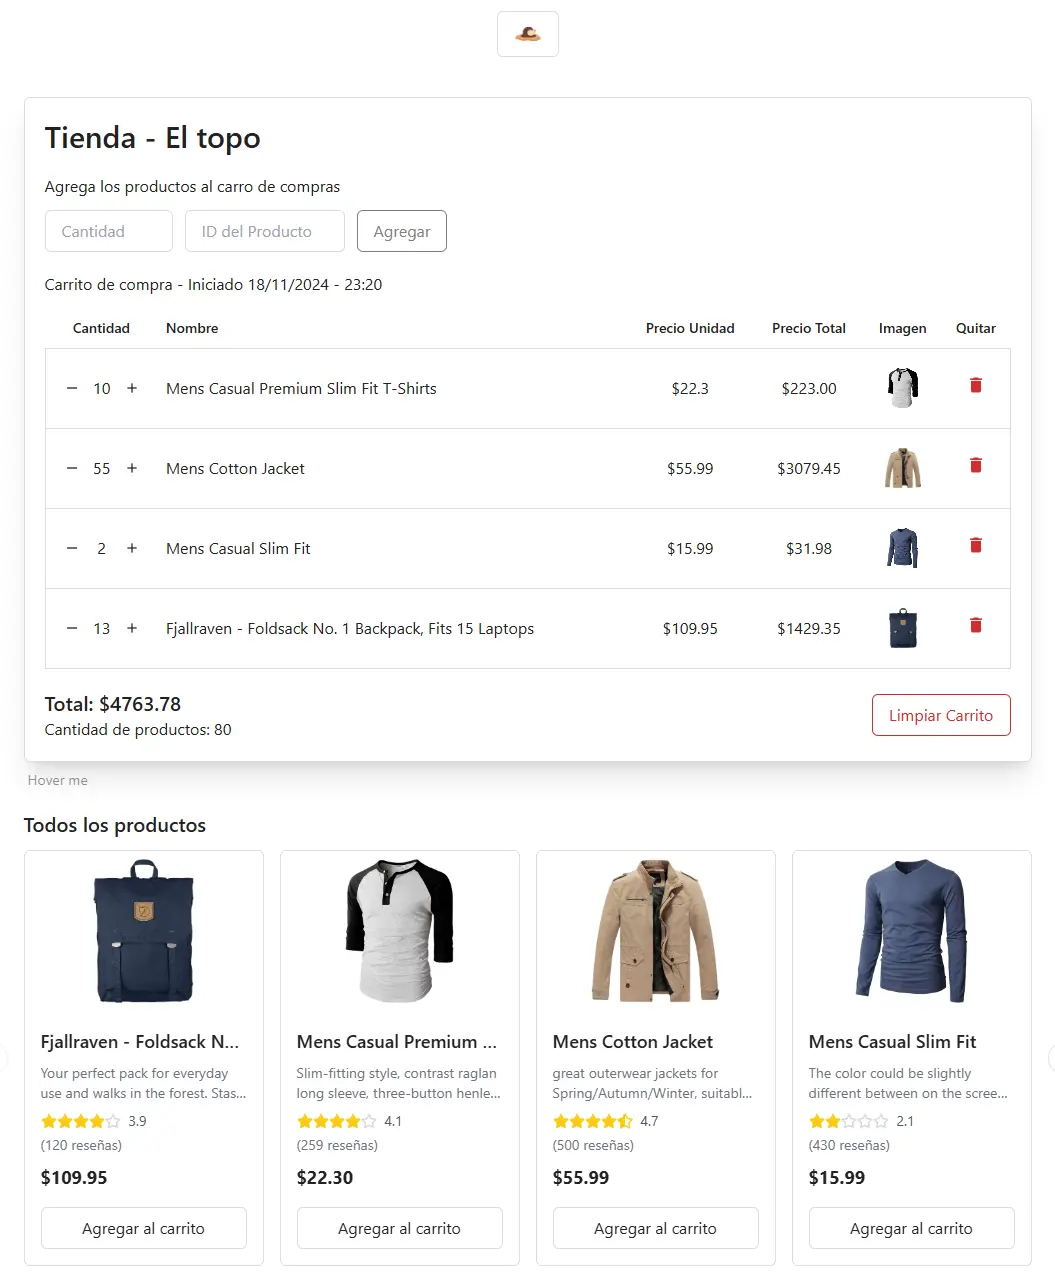
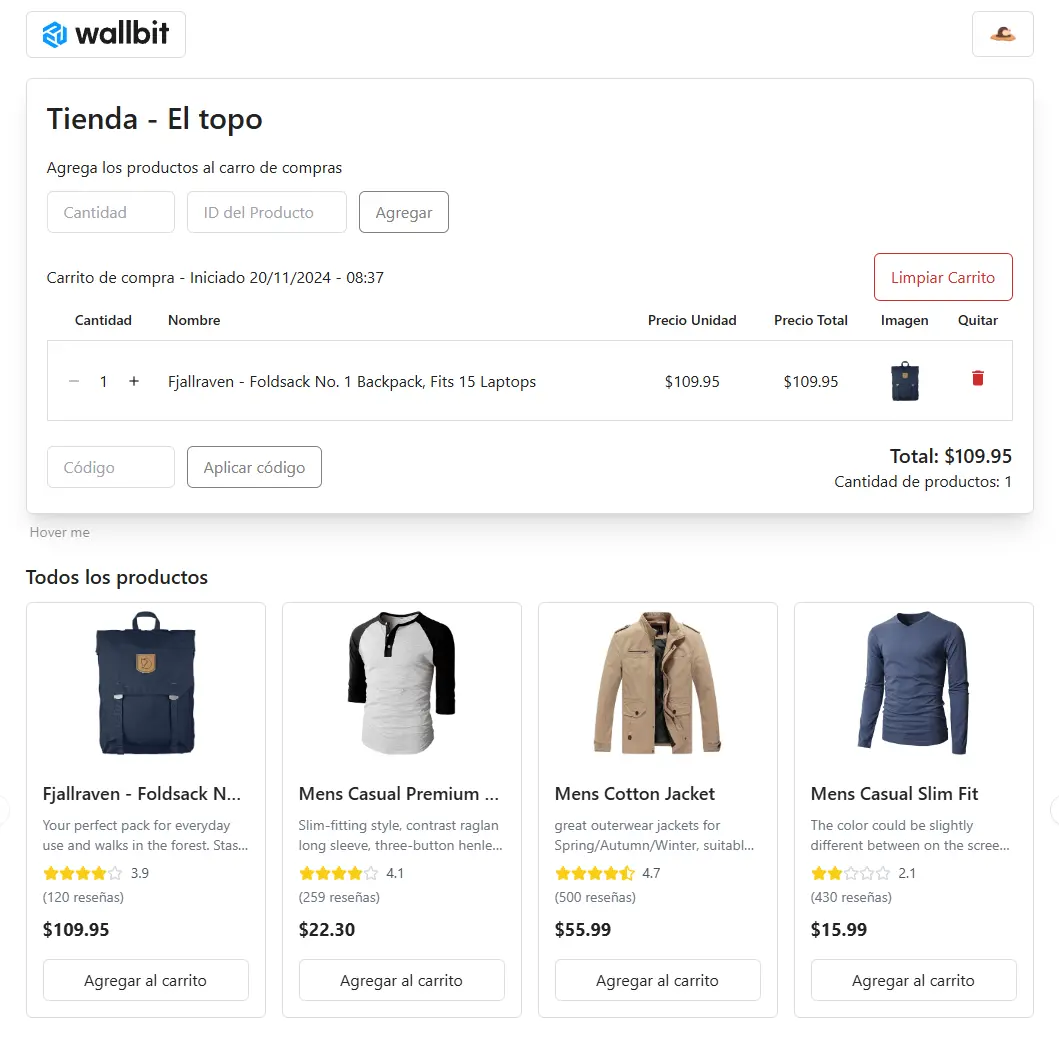
fix: some tweaks

diff --git a/src/components/cart/CartList.tsx b/src/components/cart/CartList.tsx
@@ -1,8 +1,10 @@
 import { Button } from '@components/common/Button'
 import { CartItem } from '../../types/cart'
 import { MdDelete, MdRemove, MdAdd } from 'react-icons/md'
-import { useEffect, useState } from 'react'
+import { FormEvent, useEffect, useState } from 'react'
 import 'photoswipe/style.css'
+import { Discounts, CART_DISCOUNT, CART_CODE } from '@/utils/const'
+import { toast } from '@pheralb/toast'
 
 interface Props {
   cartItems: CartItem[]
@@ -24,9 +26,52 @@ export const CartList = ({
   updateQuantity,
 }: Props) => {
   const [imageDimensions, setImageDimensions] = useState<ImageDimensions>({})
+  const [code, setCode] = useState(() => {
+    const storagedCode = localStorage.getItem(CART_CODE)
+    return storagedCode ? JSON.parse(storagedCode) : ''
+  })
+  const [discount, setDiscount] = useState(() => {
+    const storagedDiscount = localStorage.getItem(CART_DISCOUNT)
+    return storagedDiscount ? JSON.parse(storagedDiscount) : 0
+  })
 
   const totalItems = cartItems.reduce((acc, cur) => cur.quantity + acc, 0)
   const totalPrice = cartItems.reduce((acc, cur) => cur.totalPrice + acc, 0)
+
+  const handleCode = async (event: FormEvent<HTMLFormElement>) => {
+    event.preventDefault()
+    if (Object.keys(Discounts).includes(code)) {
+      setDiscount(Discounts[code])
+      localStorage.setItem(CART_CODE, JSON.stringify(code))
+    } else {
+      toast.error({
+        text: 'Invalid Code!',
+        description:
+          'The code you entered does not exist or is no longer available',
+      })
+      setCode('')
+    }
+  }
+
+  const codeValidate = () => {
+    return code ? false : true
+  }
+
+  const removeCode = () => {
+    setCode('')
+    setDiscount(0)
+  }
+
+  useEffect(() => {
+    localStorage.setItem(CART_DISCOUNT, JSON.stringify(discount))
+    localStorage.setItem(CART_CODE, JSON.stringify(code))
+    if (discount > 0) {
+      toast.success({
+        text: 'Discount Applied!',
+        description: `You got a ${discount}% discount`,
+      })
+    }
+  }, [discount])
 
   useEffect(() => {
     const loadImageDimensions = async () => {
@@ -74,16 +119,26 @@ export const CartList = ({
           No hay productos en el carro aun, prueba agregando arriba con su id y
           la cantidad que deseas ingresar
         </p>
+        <img
+          src="cart-empty.webp"
+          alt="Carrito vacio"
+          className="mx-auto size-40"
+        />
       </>
     )
   }
 
   return (
     <>
-      <h3 className="my-3">
-        Carrito de compra{' '}
-        <span>{cartItems.length ? `- Iniciado ${startedAt}` : ''}</span>
-      </h3>
+      <div className=" flex justify-between">
+        <h3 className="my-3">
+          Carrito de compra{' '}
+          <span>{cartItems.length ? `- Iniciado ${startedAt}` : ''}</span>
+        </h3>
+        <Button color="#d22e2f" onClick={clearCart}>
+          Limpiar Carrito
+        </Button>
+      </div>
 
       <article className="max-h-[500px] overflow-auto">
         <table className="w-full">
@@ -156,14 +211,56 @@ export const CartList = ({
       </article>
       <div className="flex justify-between items-center mt-5">
         <div>
-          <h5 className="text-xl font-semibold">
-            Total: ${totalPrice.toFixed(2)}
-          </h5>
+          <form onSubmit={handleCode} className="flex gap-3">
+            <input
+              type="text"
+              className="px-4 py-2 border rounded-md w-32"
+              value={code}
+              onChange={(event) => setCode(event.target.value)}
+              name="quantity"
+              readOnly={discount}
+              max={999}
+              min={1}
+              id="quantity"
+              placeholder="Código"
+            />
+            {discount ? (
+              <Button color="#d22e2f" onClick={removeCode}>
+                Eliminar código
+              </Button>
+            ) : (
+              <Button disabled={codeValidate} color="#0d99ff">
+                Aplicar código
+              </Button>
+            )}
+          </form>
+        </div>
+        <div>
+          <div className="flex justify-between gap-2 items-end">
+            <span className="text-sm font-bold text-green-600">
+              {discount ? `${discount + '% OFF'}` : ''}
+            </span>
+            <h5
+              className={`text-xl text-right font-semibold ${discount ? 'line-through text-neutral-500 opacity-50' : ''}`}
+            >
+              Total: ${totalPrice.toFixed(2)}
+            </h5>
+          </div>
+          {discount ? (
+            <div className="flex justify-between gap-2 items-end">
+              <span className="text-sm font-bold text-green-600">
+                ${(Number(totalPrice.toFixed(2)) * discount) / 100}
+              </span>
+              <h5 className="text-xl text-right font-semibold">
+                Total: $
+                {(totalPrice - (totalPrice * discount) / 100).toFixed(2)}
+              </h5>
+            </div>
+          ) : (
+            ''
+          )}
           <span>Cantidad de productos: {totalItems}</span>
         </div>
-        <Button color="#d22e2f" onClick={clearCart}>
-          Limpiar Carrito
-        </Button>
       </div>
     </>
   )

diff --git a/src/components/icon/WallbitLogo.tsx b/src/components/icon/WallbitLogo.tsx
@@ -1,0 +1,70 @@
+const WallbitLogo = ({ className }: { className?: string }) => {
+  return (
+    <svg
+      width="132"
+      height="30"
+      viewBox="0 0 132 30"
+      fill="none"
+      className={className}
+    >
+      <g clipPath="url(#clip0_1792_17837)">
+        <path
+          d="M76.0606 8.12706H72.946C72.6418 8.12706 72.4724 8.33093 72.4379 8.63518L72.336 10.1925C71.0829 8.77006 69.3907 7.75537 67.2923 7.75537C62.6549 7.75537 59.2705 11.6149 59.2705 16.4578C59.2705 21.3007 62.6549 25.1603 67.2923 25.1603C69.4581 25.1603 71.1174 24.1785 72.3014 22.7906L72.4363 24.213C72.4708 24.5173 72.6386 24.7212 72.9444 24.7212H76.0591C76.3633 24.7212 76.5672 24.5173 76.5672 24.213V8.63518C76.5672 8.33093 76.3633 8.12706 76.0591 8.12706H76.0606ZM67.835 21.0953C65.3633 21.0953 63.5692 19.0973 63.5692 16.4233C63.5692 13.7494 65.3633 11.8188 67.835 11.8188C70.3066 11.8188 72.0662 13.9188 72.0662 16.4233C72.0662 18.9279 70.2721 21.0953 67.835 21.0953Z"
+          fill="#1C1C1C"
+        />
+        <path
+          d="M80.1214 0H83.5732C83.8539 0 84.0813 0.227402 84.0813 0.508127V24.2097C84.0813 24.4904 83.8539 24.7179 83.5732 24.7179H80.1214C79.8407 24.7179 79.6133 24.4904 79.6133 24.2097V0.508127C79.6133 0.227402 79.8407 0 80.1214 0Z"
+          fill="#1C1C1C"
+        />
+        <path
+          d="M87.9876 0H91.441C91.7217 0 91.9491 0.227402 91.9491 0.508127V24.2097C91.9491 24.4904 91.7217 24.7179 91.441 24.7179H87.9876C87.7069 24.7179 87.4795 24.4904 87.4795 24.2097V0.508127C87.4795 0.227402 87.7069 0 87.9876 0Z"
+          fill="#1C1C1C"
+        />
+        <path
+          d="M104.292 7.75364C102.329 7.75364 100.704 8.63345 99.4853 9.92102V0.508127C99.4853 0.203878 99.2814 0 98.9771 0H95.5238C95.2195 0 95.0156 0.203878 95.0156 0.508127V24.2097C95.0156 24.514 95.2179 24.7179 95.5238 24.7179H98.6384C98.9426 24.7179 99.112 24.514 99.1465 24.2097L99.2814 22.7873C100.467 24.1752 102.125 25.157 104.292 25.157C108.93 25.157 112.315 21.2974 112.315 16.4545C112.315 11.6116 108.93 7.75207 104.292 7.75207V7.75364ZM103.751 21.0951C101.314 21.0951 99.5198 18.9277 99.5198 16.4232C99.5198 13.9186 101.314 11.8186 103.751 11.8186C106.188 11.8186 108.017 13.7822 108.017 16.4232C108.017 19.0642 106.223 21.0951 103.751 21.0951Z"
+          fill="#1C1C1C"
+        />
+        <path
+          d="M117.153 0.034668C115.765 0.034668 114.682 1.15129 114.682 2.5063C114.682 3.8613 115.765 4.97792 117.153 4.97792C118.541 4.97792 119.59 3.8613 119.59 2.5063C119.59 1.15129 118.507 0.034668 117.153 0.034668Z"
+          fill="#1C1C1C"
+        />
+        <path
+          d="M115.427 8.12695H118.878C119.159 8.12695 119.387 8.35436 119.387 8.63508V24.2114C119.387 24.4921 119.159 24.7195 118.878 24.7195H115.425C115.144 24.7195 114.917 24.4921 114.917 24.2114V8.63508C114.917 8.35436 115.144 8.12695 115.425 8.12695H115.427Z"
+          fill="#1C1C1C"
+        />
+        <path
+          d="M131.493 8.12706H129.123V3.55549C129.123 3.25124 128.921 3.04736 128.615 3.04736H125.161C124.857 3.04736 124.653 3.25124 124.653 3.55549V8.12706H122.284C121.979 8.12706 121.775 8.33094 121.775 8.63519V11.2762C121.775 11.5804 121.979 11.7843 122.284 11.7843H124.653V24.2115C124.653 24.5157 124.856 24.7196 125.161 24.7196H128.615C128.919 24.7196 129.123 24.5157 129.123 24.2115V11.7828H131.493C131.797 11.7828 132.001 11.5789 132.001 11.2746V8.63362C132.001 8.32937 131.798 8.12549 131.493 8.12549V8.12706Z"
+          fill="#1C1C1C"
+        />
+        <path
+          d="M58.295 7.95128H54.9357C54.7161 7.95128 54.5279 8.10026 54.4778 8.31512L51.7379 20.0914L48.8288 8.30885C48.777 8.09869 48.5888 7.95128 48.3724 7.95128H44.4156C44.1992 7.95128 44.0125 8.09713 43.9592 8.30728L40.992 20.1259L38.2459 8.31512C38.1957 8.10026 38.0075 7.95128 37.788 7.95128H34.1888C34.0398 7.95128 33.9018 8.02028 33.8124 8.13947C33.723 8.25866 33.6947 8.41079 33.7371 8.5535L38.4514 24.5799C38.5094 24.779 38.696 24.9171 38.903 24.9171H42.9932C43.2064 24.9171 43.3946 24.7728 43.448 24.5658L46.2709 13.7493L49.0938 24.5658C49.1471 24.7728 49.3353 24.9171 49.5486 24.9171H53.6089C53.8159 24.9171 54.0026 24.7775 54.0606 24.5783L58.7451 8.55193C58.7874 8.40765 58.7592 8.25709 58.6698 8.1379C58.5804 8.01871 58.4424 7.94971 58.2934 7.94971L58.295 7.95128Z"
+          fill="#1C1C1C"
+        />
+      </g>
+      <path
+        d="M12.4283 1.41162L0 8.49226V13.0108L12.3338 5.8836L14.9801 7.32768L6.19052 11.9394L10.4908 14.3152L18.7133 9.61026V4.99852L12.4283 1.41162Z"
+        fill="#0D99FF"
+      />
+      <path
+        d="M24.81 22.5594V8.3981L20.8405 6.16211L20.7932 20.2768L18.3359 21.7675L18.6667 11.985L14.4609 14.4539V23.8637L18.5249 26.1463L24.81 22.5594Z"
+        fill="#0D99FF"
+      />
+      <path
+        d="M0 22.5601L12.4283 29.6407L16.3978 27.3582L4.01675 20.2309L3.92224 17.3894L12.3338 22.6067L12.2865 17.762L4.064 13.0571L0 15.3863V22.5601Z"
+        fill="#0D99FF"
+      />
+      <defs>
+        <clipPath id="clip0_1792_17837">
+          <rect
+            width="98.2817"
+            height="25.157"
+            fill="white"
+            transform="translate(33.7188)"
+          />
+        </clipPath>
+      </defs>
+    </svg>
+  )
+}
+
+export default WallbitLogo

diff --git a/src/components/common/Header.tsx b/src/components/common/Header.tsx
@@ -1,11 +1,15 @@
 import { useTheme } from '@hooks/useTheme'
 import { Button } from '@components/common/Button'
+import WallbitLogo from '../icon/WallbitLogo'
 
 const Header: React.FC = () => {
   const { theme, toggleTheme } = useTheme()
 
   return (
-    <header className="mt-3 mb-10 flex gap-3 justify-center">
+    <header className="mt-3 mb-5 flex gap-3 justify-between items-center">
+      <a href="https://wallbit.io/" target="_blank" rel="noreferrer">
+        <WallbitLogo className="border rounded-md bg-white w-40 h-auto px-4 py-2 transition-all hover:scale-[1.03] duration-150" />
+      </a>
       <Button onClick={toggleTheme}>
         {theme === 'dark' ? (
           <img src="/topoff.webp" className="size-7" alt="" />

diff --git a/src/App.tsx b/src/App.tsx
@@ -7,12 +7,15 @@ import { CartProvider } from './contexts/CartContext.tsx'
 
 const App: React.FC = () => {
   return (
-    <div className="flex flex-col min-h-screen">
+    <div className="flex flex-col min-h-screen container max-w-5xl mx-auto px-2">
       <Header />
-      <main className="container max-w-5xl mx-auto px-2">
+      <main>
         <CartProvider>
           <Cart />
-          <p title="Type 'tuki'" className="opacity-50 text-sm pt-2 pl-1">
+          <p
+            title="Discount Code: tuki"
+            className="opacity-50 text-sm pt-2 pl-1"
+          >
             Hover me
           </p>
           <ProductsLists />

diff --git a/src/components/products/ProductsLists.tsx b/src/components/products/ProductsLists.tsx
@@ -35,7 +35,13 @@ const ProductsLists = () => {
   }
 
   if (loading) {
-    return <div className="text-center py-44">Cargando productos...</div>
+    return (
+      <section className="my-5">
+        <h3 className="text-xl mb-3 font-semibold">Todos los productos</h3>
+
+        <div className="text-center py-32">Cargando productos...</div>
+      </section>
+    )
   }
 
   return (

diff --git a/src/components/cart/CartSearch.tsx b/src/components/cart/CartSearch.tsx
@@ -19,7 +19,7 @@ export const CartSearch = ({ onSubmit, loading }: Props) => {
   }
 
   function validateForm() {
-    return !Number(formData.productId) || !Number(formData.quantity)
+    return Number(formData.productId) < 1 || Number(formData.quantity) < 1
       ? true
       : false
   }

diff --git a/src/utils/const.ts b/src/utils/const.ts
@@ -10,3 +10,13 @@ export const INITIAL_FORM_DATA = {
   productId: '',
   quantity: '',
 }
+
+export const CART_DISCOUNT = 'cart-discount'
+
+export const CART_CODE = 'cart-code'
+
+export const Discounts = {
+  goncy: 10,
+  wallbit: 20,
+  tuki: 100,
+}

diff --git a/README.md b/README.md
@@ -4,11 +4,9 @@ Creía que El Topo era una tienda pensada para programadores que necesiten añad
 
 ![tu-eres-el-topo](/public/tu-eres-el-topo.webp)
 
-## 🌄 Imagenes ilustrativas
+## 🌄 Imagen ilustrativa
 
 ![light-mode](/public/light-demo.webp)
-
-![dark-mode](/public/dark-demo.webp)
 
 ## 🌟 Características
 
